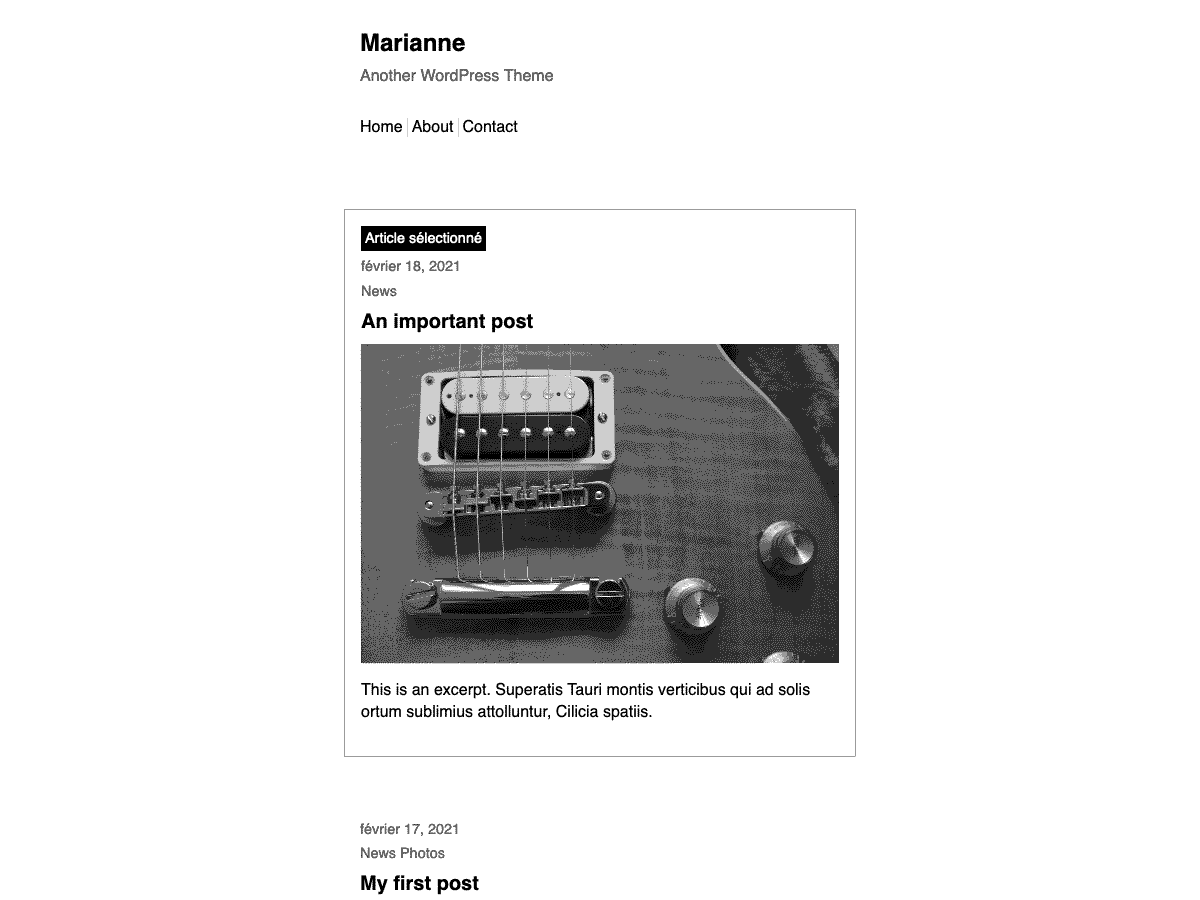
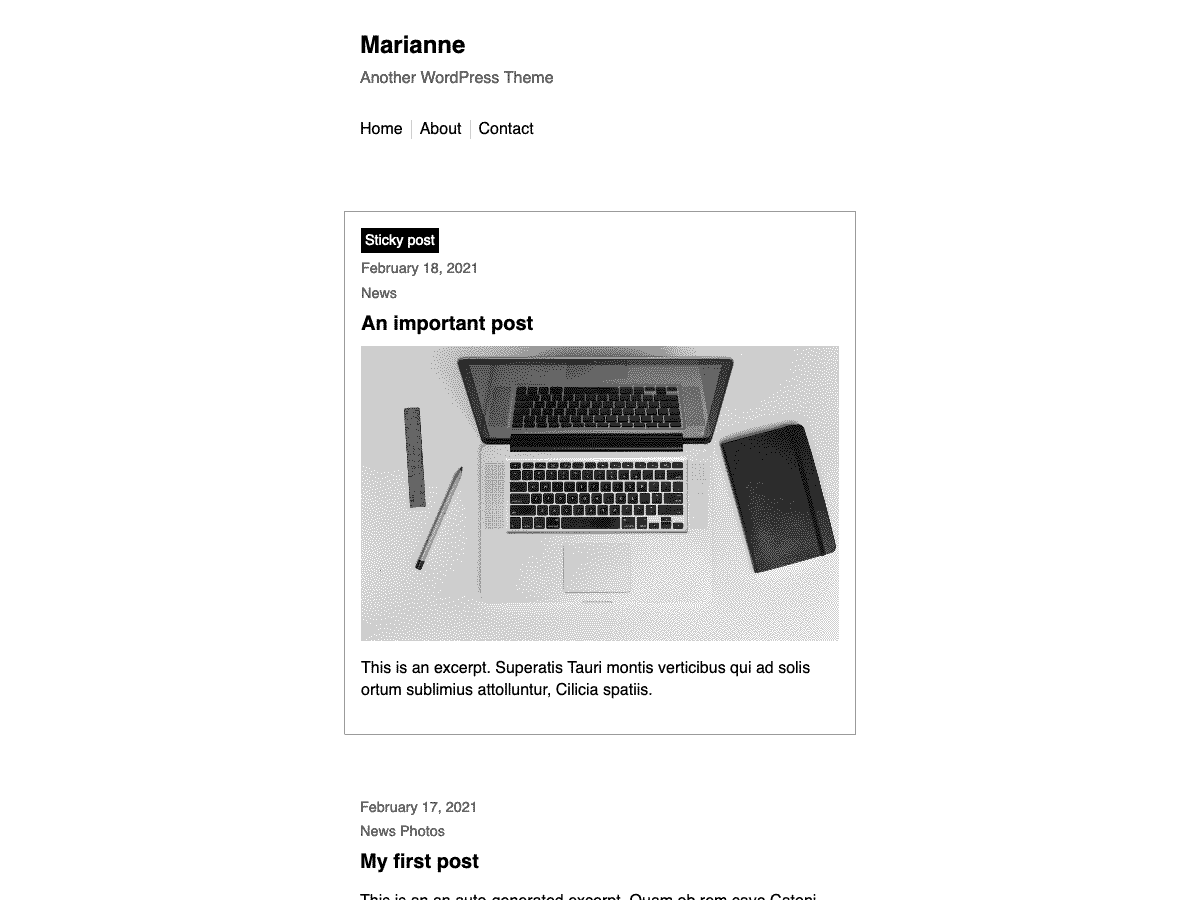
Update screenshot & credits

diff --git a/README.md b/README.md
@@ -93,3 +93,6 @@ Marianne is based on the work of:
 
 Normalizing styles have been helped along thanks to [the fine work of
 Nicolas Gallagher and Jonathan Neal](https://necolas.github.io/normalize.css/)
+
+Screenshot image: [apple-desk-laptop-macbook-pro](https://www.flickr.com/photos/137643065@N06/23699397893), by pixellaphoto
+License: [CC0 1.0 Public Domain Dedication](https://creativecommons.org/publicdomain/zero/1.0/)
